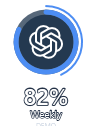
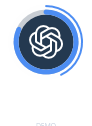
Show mini labels on hover and make inactive ring track translucent

diff --git a/native/Tests.cs b/native/Tests.cs
@@ -35,6 +35,18 @@ static class NativeTests {
 sealed partial class GlassWindow {
     async Task Capture(string name){await Dispatcher.InvokeAsync(()=>{},DispatcherPriority.ApplicationIdle);UpdateLayout();var visual=Content as FrameworkElement;var image=new RenderTargetBitmap((int)Math.Ceiling(Width),(int)Math.Ceiling(Height),96,96,PixelFormats.Pbgra32);image.Render(this);var pixels=new byte[(int)Math.Ceiling(Width)*(int)Math.Ceiling(Height)*4];image.CopyPixels(pixels,(int)Math.Ceiling(Width)*4,0);if(!Enumerable.Range(0,pixels.Length/4).Any(i=>pixels[i*4+3]>0))throw new Exception("Blank capture: "+name);var png=new PngBitmapEncoder();png.Frames.Add(BitmapFrame.Create(image));using(var file=File.Create(Path.Combine(Program.QaDirectory,name+".png")))png.Save(file);}
     async Task Pause(){await Task.Delay(80);await Dispatcher.InvokeAsync(()=>{},DispatcherPriority.ApplicationIdle);}
+    byte[] RingPixels(){var bitmap=new RenderTargetBitmap(92,126,96,96,PixelFormats.Pbgra32);bitmap.Render(ring);var pixels=new byte[92*126*4];bitmap.CopyPixels(pixels,92*4,0);return pixels;}
+    async Task CheckRingHover(){
+        ring.Reveal(false,false);await Pause();var hidden=RingPixels();
+        NativeTests.Check(Enumerable.Range(80*92,40*92).All(i=>hidden[i*4+3]==0),"Idle ring hides percentage and period");
+        int trackAlpha=hidden[(42*92+16)*4+3];NativeTests.Check(trackAlpha>50&&trackAlpha<120,"Inactive ring track composites with wallpaper");
+        NativeTests.Check(VisualTreeHelper.HitTest(ring,new Point(46,94))==null,"Hidden label area does not capture ring input");
+        ring.RaiseEvent(new System.Windows.Input.MouseEventArgs(System.Windows.Input.Mouse.PrimaryDevice,0){RoutedEvent=System.Windows.Input.Mouse.MouseEnterEvent});await Task.Delay(240);await Pause();
+        NativeTests.Check(ring.RevealProgress>.99,"Pointer entry completes reveal");var shown=RingPixels();NativeTests.Check(Enumerable.Range(80*92,40*92).Any(i=>shown[i*4+3]>0),"Hover draws percentage and period");await Capture("mini-hover");
+        ring.RaiseEvent(new System.Windows.Input.MouseEventArgs(System.Windows.Input.Mouse.PrimaryDevice,0){RoutedEvent=System.Windows.Input.Mouse.MouseLeaveEvent});await Task.Delay(200);await Pause();NativeTests.Check(ring.RevealProgress<.01,"Pointer exit retracts labels");
+        for(int i=0;i<6;i++){ring.Reveal(true);await Task.Delay(20);ring.Reveal(false);await Task.Delay(20);}await Task.Delay(200);NativeTests.Check(ring.RevealProgress<.01&&!ring.HasAnimatedProperties,"Rapid hover settles and releases the animation clock");
+        ring.Reveal(true,false);var oldRing=ring;Render();await Pause();NativeTests.Check(!oldRing.HasAnimatedProperties,"Rebuilding ring removes old animation clocks");ring.Reveal(false,false);await Capture("mini-idle");
+    }
     async Task CheckLanguages(){
         foreach(string code in Localization.Codes){
             await Pause();
@@ -54,7 +66,7 @@ sealed partial class GlassWindow {
         await Service.Refresh();Service.Snapshot["windows"]=J.Items(Service.Snapshot["windows"]).Where(q=>J.S(q,"group")!="codex"||J.N(q,"minutes")==10080).ToArray();
         view="main";dailyOpen=otherOpen=false;Service.Settings["mainSize"]=null;Service.Settings["compact"]=false;Service.Settings["theme"]="light";Service.Settings["accentColor"]="#4c8df3";
         foreach(string code in Localization.Codes){SetLanguage(code);scroller.ScrollToTop();await Capture("publish-"+code);}
-        Service.Settings["theme"]="dark";Render();await Capture("publish-dark");Compact(true);await Capture("publish-mini");
+        Service.Settings["theme"]="dark";Render();await Capture("publish-dark");Compact(true);await Capture("publish-mini");ring.Reveal(true,false);await Capture("publish-mini-hover");
     }
     void CheckTitleBar(){UpdateLayout();var header=Descendants<Border>(this).Single(b=>b.Name=="TitleBar");
         foreach(var point in new[]{new Point(5,28),new Point(header.ActualWidth/2,5),new Point(header.ActualWidth-5,28)}){
@@ -73,7 +85,7 @@ sealed partial class GlassWindow {
     }
     public async Task RunQA(){await Pause();await Service.Refresh();Render();await Capture("zh-main");CheckTitleBar();await CheckLanguages();double closedHeight=Height;otherOpen=true;Render();await Pause();NativeTests.Check(Height==closedHeight&&scroller.ScrollableHeight>0,"Expanding pools scrolls without growing the window");NativeTests.Check(Descendants<TextBlock>(scroller).Any(t=>t.Text=="gpt-5.6-luna"),"Pool model label is shown");var bar=Descendants<System.Windows.Controls.Primitives.ScrollBar>(scroller).Single(b=>b.Name=="PART_VerticalScrollBar");NativeTests.Check(bar.IsVisible,"Right scrollbar visible for overflow");System.Windows.Controls.Primitives.ScrollBar.PageDownCommand.Execute(null,bar);await Pause();NativeTests.Check(scroller.VerticalOffset>0,"Scrollbar page-down scrolls content");scroller.ScrollToVerticalOffset(250);await Pause();double beforeRefresh=scroller.VerticalOffset;Render();await Pause();NativeTests.Check(Math.Abs(scroller.VerticalOffset-beforeRefresh)<1,"Refresh retains scroll position");await Capture("zh-other-pools");Service.Settings["mainSize"]=J.Obj("width",320,"height",760);Render();scroller.ScrollToEnd();await Capture("zh-other-pools-narrow");Service.Settings["language"]="en";Render();scroller.ScrollToEnd();await Capture("en-other-pools-narrow");Service.Settings["language"]="zh";Service.Settings["mainSize"]=null;otherOpen=false;dailyOpen=true;await Service.ReadDaily();Render();await Pause();NativeTests.Check(Height==closedHeight,"Daily usage expansion keeps main height");await Capture("zh-daily");range=30;Render();await Capture("zh-month");NativeTests.Check(Descendants<BarChart>(this).Single().Days.Count==30,"Thirty chart bars");
         var initial=new Rect(Left,Top,Width,Height);foreach(string corner in new[]{"se","sw","ne","nw"}){var origin=new Rect(Left,Top,Width,Height);manualResize=true;ResizeFrom(origin,corner,corner.Contains("w")?10:-10,corner.Contains("n")?10:-10);manualResize=false;NativeTests.Check(Math.Abs(Width-origin.Width+10)<.1&&Math.Abs(Height-origin.Height+10)<.1,"Corner sizing "+corner);}
-        Service.Settings["mainSize"]=J.Obj("width",320,"height",420);Service.Save();Render();await Capture("small");await Pause();NativeTests.Check(scroller.ScrollableHeight>0&&scroller.ScrollableWidth==0,"Narrow overview scrolls vertically only");scroller.ScrollToEnd();await Capture("small-footer");Compact(true);await Capture("mini");NativeTests.Check(Width==92&&Height==126,"Mini dimensions preserved");NativeTests.Check(J.N(ring.Quota,"remaining")==68,"Ring tracks primary allowance");Service.Settings["ringWindow"]="week";Service.Settings["elapsedArc"]=true;Render();await Capture("mini-week");Background=Brushes.White;await Capture("mini-white-wallpaper");Background=Paint.Brush("#F1F4F8");await Capture("mini-light-wallpaper");Background=Paint.Brush("#17243A");await Capture("mini-dark-wallpaper");Background=Brushes.Transparent;NativeTests.Check(J.N(ring.Quota,"remaining")==82&&ring.Period==T("week"),"Pinned weekly ring");Compact(false);NativeTests.Check(Width==320&&Height==420,"Main size restored");view="settings";Render();await Capture("zh-settings");NativeTests.Check(Descendants<ComboBox>(this).Count()>=5,"Native settings controls present");
+        Service.Settings["mainSize"]=J.Obj("width",320,"height",420);Service.Save();Render();await Capture("small");await Pause();NativeTests.Check(scroller.ScrollableHeight>0&&scroller.ScrollableWidth==0,"Narrow overview scrolls vertically only");scroller.ScrollToEnd();await Capture("small-footer");Compact(true);await Capture("mini");await CheckRingHover();NativeTests.Check(Width==92&&Height==126,"Mini dimensions preserved");NativeTests.Check(J.N(ring.Quota,"remaining")==68,"Ring tracks primary allowance");Service.Settings["ringWindow"]="week";Service.Settings["elapsedArc"]=true;Render();ring.Reveal(true,false);await Capture("mini-week");Background=Brushes.White;await Capture("mini-white-wallpaper");Background=Paint.Brush("#F1F4F8");await Capture("mini-light-wallpaper");Background=Paint.Brush("#17243A");await Capture("mini-dark-wallpaper");Background=Brushes.Transparent;NativeTests.Check(J.N(ring.Quota,"remaining")==82&&ring.Period==T("week"),"Pinned weekly ring");Compact(false);NativeTests.Check(Width==320&&Height==420,"Main size restored");view="settings";Render();await Capture("zh-settings");NativeTests.Check(Descendants<ComboBox>(this).Count()>=5,"Native settings controls present");
         Service.Settings["language"]="en";Service.Settings["theme"]="dark";Service.Settings["accentColor"]="#8b5cf6";Service.Save();Render();await Capture("en-settings");NativeTests.Check(Service.SetMember(Service.Identity,"2027-03-14","expiry"),"Member saved");NativeTests.Check(!Service.SetMember("wrong","2027-03-14","expiry"),"Membership cross-account rejected");NativeTests.Check(J.S(Service.Store.Read("settings"),"accentColor")=="#8b5cf6","Color persists");view="main";Service.Settings["mainSize"]=null;Render();await Capture("en-dark");Compact(true);var memory=Memory();await Capture("mini-dark");Service.Snapshot=null;Service.Status="error";Service.Error="signInRequired";Compact(false);Render();await Capture("signed-out");NativeTests.Check(Descendants<Button>(this).Any(b=>Convert.ToString(b.Content)==T("connect")),"Sign-in control available");await CaptureReadme();File.WriteAllText(Path.Combine(Program.QaDirectory,"ui-result.json"),J.Json(J.Obj("passed",true,"renderer","WPF","miniWidth",92,"miniHeight",126,"helperRunning",Service.Rpc.ChildId!=0,"memory",memory)));
     }
     static IEnumerable<T> Descendants<T>(DependencyObject root) where T:DependencyObject {for(int i=0;i<VisualTreeHelper.GetChildrenCount(root);i++){var child=VisualTreeHelper.GetChild(root,i);if(child is T)yield return (T)child;foreach(var next in Descendants<T>(child))yield return next;}}

diff --git a/native/Window.cs b/native/Window.cs
@@ -20,7 +20,7 @@ using D=System.Collections.Generic.Dictionary<string,object>;
 namespace CodexGlass {
 sealed partial class GlassWindow : Window {
     public readonly Service Service;readonly bool smoke;Forms.NotifyIcon tray;DispatcherTimer poll,tick,loginTimeout,moveTimer;string view="main";bool dailyOpen,otherOpen,placing,manualResize,closing;int range=7;Brush ink,muted,accent,line,surface;bool dark;Geometry logo;Point ringDown;bool ringMoved;RingView ring;TextBlock statusText;List<Action> clockUpdates=new List<Action>();ScrollViewer scroller;
-    public const string Version="0.5.0";
+    public const string Version="0.5.1";
     public GlassWindow(Service service,bool qa){Service=service;smoke=qa;logo=Geometry.Parse(Resource("logo.txt"));logo.Freeze();
         Title="Codex Glass";FontFamily=new FontFamily("Segoe UI, Microsoft YaHei");FontSize=12;WindowStyle=WindowStyle.None;AllowsTransparency=true;Background=Brushes.Transparent;ShowInTaskbar=false;ResizeMode=ResizeMode.NoResize;Width=382;Height=580;UseLayoutRounding=true;SnapsToDevicePixels=true;
         using(var stream=Assembly.GetExecutingAssembly().GetManifestResourceStream("icon.png")){Icon=BitmapFrame.Create(stream,BitmapCreateOptions.None,BitmapCacheOption.OnLoad);}
@@ -129,7 +129,7 @@ sealed partial class GlassWindow : Window {
         var note=Text(T("dailySource")+(J.B(Service.Daily,"incomplete")?" "+T("partialDaily"):""),10,muted);note.Margin=new Thickness(0,10,0,8);content.Children.Add(note);return content;}
     UIElement Footer(){statusText=Text("",10,muted);Action update=()=>{string age=Service.Snapshot==null?"":J.Now-J.N(Service.Snapshot,"observedAt")<60000?T("justNow"):Math.Floor((J.Now-J.N(Service.Snapshot,"observedAt"))/60000)+" "+T("minutesAgo");statusText.Text="●  "+T(Service.Busy?"syncing":Service.Status=="live"?"live":Service.Status=="stale"?"stale":"offline")+"  "+age;};update();clockUpdates.Add(update);var buttons=new StackPanel{Orientation=Orientation.Horizontal};buttons.Children.Add(IconButton("\uE72C",T("refresh"),RefreshSoon));buttons.Children.Add(IconButton("\uE8A7",T("usage"),()=>Open("https://chatgpt.com/codex/settings/usage")));return new Border{BorderBrush=line,BorderThickness=new Thickness(0,1,0,0),Padding=new Thickness(20,2,14,2),Child=Row(statusText,buttons)};}
     void Compact(bool compact){Service.Settings["compact"]=compact;Service.Save();view="main";Render();}
-    void BuildRing(){var selected=Model.Selected(Service.Snapshot,J.S(Service.Settings,"ringWindow"),J.Now);ring=new RingView{Quota=selected,Period=selected==null?"":QuotaName(selected),Accent=J.Get(Service.Settings,"accentColor")==null?Paint.Brush("#2EC9A0"):accent,Stale=Service.Status=="stale",Demo=Service.Demo,Outer=J.B(Service.Settings,"elapsedArc"),OuterAccent=accent,Logo=logo};ring.ToolTip=string.Join("\n",J.Items(J.Get(Service.Snapshot,"windows")).Select(q=>QuotaName(q)+" · "+Math.Floor(J.N(q,"remaining"))+"% · "+Countdown(q)))+"\n"+T("ringHelp");ring.MouseLeftButtonDown+=(s,e)=>{ringDown=PointToScreen(e.GetPosition(this));ringMoved=false;ring.CaptureMouse();e.Handled=true;};ring.MouseMove+=(s,e)=>{if(e.LeftButton!=MouseButtonState.Pressed)return;Point p=PointToScreen(e.GetPosition(this));if(!ringMoved&&(p-ringDown).Length>5){ringMoved=true;ring.ReleaseMouseCapture();MoveWindow();}};ring.MouseLeftButtonUp+=(s,e)=>{ring.ReleaseMouseCapture();if(!ringMoved)Compact(false);e.Handled=true;};ring.KeyDown+=(s,e)=>{if(e.Key==Key.Enter||e.Key==Key.Space){Compact(false);e.Handled=true;}};Content=ring;}
+    void BuildRing(){var selected=Model.Selected(Service.Snapshot,J.S(Service.Settings,"ringWindow"),J.Now);ring=new RingView{Quota=selected,Period=selected==null?"":QuotaName(selected),Accent=J.Get(Service.Settings,"accentColor")==null?Paint.Brush("#2EC9A0"):accent,Stale=Service.Status=="stale",Demo=Service.Demo,Outer=J.B(Service.Settings,"elapsedArc"),OuterAccent=accent,Logo=logo};System.Windows.Automation.AutomationProperties.SetHelpText(ring,string.Join("\n",J.Items(J.Get(Service.Snapshot,"windows")).Select(q=>QuotaName(q)+" · "+Math.Floor(J.N(q,"remaining"))+"% · "+Countdown(q)))+"\n"+T("ringHelp"));ring.MouseLeftButtonDown+=(s,e)=>{ringDown=PointToScreen(e.GetPosition(this));ringMoved=false;ring.CaptureMouse();e.Handled=true;};ring.MouseMove+=(s,e)=>{if(e.LeftButton!=MouseButtonState.Pressed)return;Point p=PointToScreen(e.GetPosition(this));if(!ringMoved&&(p-ringDown).Length>5){ringMoved=true;ring.ReleaseMouseCapture();MoveWindow();}};ring.MouseLeftButtonUp+=(s,e)=>{ring.ReleaseMouseCapture();if(!ringMoved)Compact(false);e.Handled=true;};ring.KeyDown+=(s,e)=>{if(e.Key==Key.Enter||e.Key==Key.Space){Compact(false);e.Handled=true;}};Content=ring;}
     public static void Open(string url){Process.Start(new ProcessStartInfo(url){UseShellExecute=true});}
     void SetStartup(bool enabled){if(smoke)return;try{using(var key=Registry.CurrentUser.CreateSubKey(@"Software\Microsoft\Windows\CurrentVersion\Run")){if(enabled)key.SetValue("Codex Glass","\""+Assembly.GetExecutingAssembly().Location+"\" --hidden");else key.DeleteValue("Codex Glass",false);}}catch{Service.Settings["startup"]=false;}}
     void UpdateTray(){tray.Text="Codex Glass";var menu=new Forms.ContextMenuStrip();Action<string,Action> item=(label,action)=>menu.Items.Add(label,null,(s,e)=>Dispatcher.BeginInvoke(action));item(T("expand"),()=>{Compact(false);Reveal();});item(T("compact"),()=>{Compact(true);Reveal();});item(T("settings"),()=>{view="settings";Render();Reveal();});item(T("refresh"),RefreshSoon);item(T("restoreSize"),()=>{Service.Settings["mainSize"]=null;Service.Save();Render();});item(T("quit"),Quit);var old=tray.ContextMenuStrip;tray.ContextMenuStrip=menu;if(old!=null)old.Dispose();}

diff --git a/native/Visuals.cs b/native/Visuals.cs
@@ -5,6 +5,7 @@ using System.Linq;
 using System.Windows;
 using System.Windows.Input;
 using System.Windows.Media;
+using System.Windows.Media.Animation;
 using D=System.Collections.Generic.Dictionary<string,object>;
 namespace CodexGlass {
 static class Paint {
@@ -22,15 +23,37 @@ static class Paint {
 }
 sealed class RingView : FrameworkElement {
     public D Quota;public string Period;public Brush Accent,OuterAccent;public bool Stale,Demo,Outer;public Geometry Logo;
-    public RingView(){Width=92;Height=126;Cursor=Cursors.Hand;Focusable=true;}
+    static readonly Brush CenterBrush=Paint.Brush("#243950"),TrackBrush=Paint.Brush("#5257687A"),HitBrush=Paint.Brush("#01000000");
+    static readonly DependencyProperty RevealProperty=DependencyProperty.Register("RevealProgress",typeof(double),typeof(RingView),new FrameworkPropertyMetadata(0d,FrameworkPropertyMetadataOptions.AffectsRender));
+    bool revealed;int animationVersion;string captionKey;DrawingGroup caption;
+    public double RevealProgress {get{return (double)GetValue(RevealProperty);}}
+    public RingView(){Width=92;Height=126;Cursor=Cursors.Hand;Focusable=true;
+        MouseEnter+=(s,e)=>Reveal(true);MouseLeave+=(s,e)=>Reveal(false);
+        GotKeyboardFocus+=(s,e)=>Reveal(true);LostKeyboardFocus+=(s,e)=>{if(!IsMouseOver)Reveal(false);};
+        Loaded+=(s,e)=>{if(IsMouseOver)Reveal(true,false);};
+        Unloaded+=(s,e)=>{animationVersion++;BeginAnimation(RevealProperty,null);};
+    }
+    public void Reveal(bool show,bool animate=true){if(revealed==show&&animate)return;revealed=show;int version=++animationVersion;double target=show?1:0;
+        if(!animate||!SystemParameters.ClientAreaAnimation){BeginAnimation(RevealProperty,null);SetValue(RevealProperty,target);return;}
+        var motion=new DoubleAnimation(RevealProgress,target,TimeSpan.FromMilliseconds(show?180:140)){EasingFunction=new CubicEase{EasingMode=EasingMode.EaseOut},FillBehavior=FillBehavior.Stop};
+        motion.Completed+=(s,e)=>{if(version==animationVersion){BeginAnimation(RevealProperty,null);SetValue(RevealProperty,target);}};
+        BeginAnimation(RevealProperty,motion,HandoffBehavior.SnapshotAndReplace);SetValue(RevealProperty,target);
+    }
+    protected override HitTestResult HitTestCore(PointHitTestParameters hit){return (hit.HitPoint-new Point(46,42)).Length<=38?new PointHitTestResult(this,hit.HitPoint):null;}
+    DrawingGroup Caption(double left){string value=left<0?"—":Math.Floor(left)+"%",period=(Stale?"◷ ":"")+(Period??"");string key=value+"|"+period;
+        if(caption==null||captionKey!=key){captionKey=key;caption=new DrawingGroup();using(var text=caption.Open()){
+            var number=Paint.Text(value,23,Brushes.White,true);Paint.DesktopText(text,number,new Point((92-number.Width)/2,80),2);
+            var label=Paint.Text(period,10,Brushes.White);Paint.DesktopText(text,label,new Point((92-label.Width)/2,107),1.6);
+        }caption.Freeze();}return caption;
+    }
     protected override void OnRender(DrawingContext dc){
         base.OnRender(dc);double left=Quota==null?-1:J.N(Quota,"remaining");Brush color=Stale||left<0?Paint.Brush("#98A5B6"):left<=10?Paint.Brush("#EF5B58"):left<=25?Paint.Brush("#F5A33C"):Accent;
-        var center=new Point(46,42);dc.DrawEllipse(Paint.Brush("#243950"),null,center,30,30);dc.DrawEllipse(null,new Pen(Paint.Brush("#57687A"),5),center,30,30);
+        // Keep the gap between rings hoverable, without an opaque backing behind the track.
+        var center=new Point(46,42);dc.DrawEllipse(HitBrush,null,center,38,38);dc.DrawEllipse(CenterBrush,null,center,27.5,27.5);dc.DrawEllipse(null,new Pen(TrackBrush,5),center,30,30);
         Paint.Arc(dc,center,30,Math.Max(0,left)/100,new Pen(color,5){StartLineCap=PenLineCap.Round,EndLineCap=PenLineCap.Round});
         if(Outer&&Quota!=null&&J.N(Quota,"resetsAt")>0&&J.N(Quota,"minutes")>0)Paint.Arc(dc,center,36,J.Clamp(1-(J.N(Quota,"resetsAt")-J.Now)/(J.N(Quota,"minutes")*60000),0,1),new Pen(OuterAccent??Accent,2){StartLineCap=PenLineCap.Round,EndLineCap=PenLineCap.Round});
         if(Logo!=null){dc.PushTransform(new TranslateTransform(29,25));dc.PushTransform(new ScaleTransform(34/24.0,34/24.0));dc.DrawGeometry(Brushes.White,null,Logo);dc.Pop();dc.Pop();}
-        var value=Paint.Text(left<0?"—":Math.Floor(left)+"%",23,Brushes.White,true);Paint.DesktopText(dc,value,new Point((92-value.Width)/2,80),2);
-        var period=Paint.Text((Stale?"◷ ":"")+(Period??""),10,Brushes.White);Paint.DesktopText(dc,period,new Point((92-period.Width)/2,107),1.6);
+        double reveal=J.Clamp(RevealProgress,0,1);if(reveal>0){dc.PushClip(new RectangleGeometry(new Rect(0,79,92,41)));dc.PushOpacity(reveal);dc.PushTransform(new TranslateTransform(0,-8*(1-reveal)));dc.DrawDrawing(Caption(left));dc.Pop();dc.Pop();dc.Pop();}
         if(Demo){var demo=Paint.Text("DEMO",7,Paint.Brush("#D0D9E5"));dc.DrawText(demo,new Point((92-demo.Width)/2,120));}
     }
 }

diff --git a/native/Core.cs b/native/Core.cs
@@ -121,7 +121,7 @@ sealed class Rpc : IDisposable {
             try {if(!p.Start())throw new Exception("startFailed");}catch{Close(p,"startFailed");throw new Exception("startFailed");}
             p.StandardInput.AutoFlush=true;
             BeginRead(p);
-            await Request("initialize",J.Obj("clientInfo",J.Obj("name","codex_glass_native","title","Codex Glass","version","0.5.0")));
+            await Request("initialize",J.Obj("clientInfo",J.Obj("name","codex_glass_native","title","Codex Glass","version","0.5.1")));
             Write(J.Obj("method","initialized","params",new D()));ready=true;
         }finally{startGate.Release();}
     }

diff --git a/native/Program.cs b/native/Program.cs
@@ -6,8 +6,8 @@ using System.Windows;
 using System.Windows.Threading;
 [assembly: AssemblyTitle("Codex Glass")]
 [assembly: AssemblyProduct("Codex Glass")]
-[assembly: AssemblyVersion("0.5.0.0")]
-[assembly: AssemblyFileVersion("0.5.0.0")]
+[assembly: AssemblyVersion("0.5.1.0")]
+[assembly: AssemblyFileVersion("0.5.1.0")]
 namespace CodexGlass {
 static class Program {
     public static string[] Arguments;public static string QaDirectory;

diff --git a/README.en.md b/README.en.md
@@ -10,7 +10,7 @@ Windows 10 / 11 · x64 · C# / WPF
 
 [简体中文](README.md) · [繁體中文](README.zh-TW.md) · [English](README.en.md)
 
-![Windows](https://img.shields.io/badge/Windows-10%20%2F%2011-0078D4?style=flat-square) ![Version](https://img.shields.io/badge/version-0.5.0-4C8DF3?style=flat-square) ![MIT](https://img.shields.io/badge/license-MIT-16A085?style=flat-square)
+![Windows](https://img.shields.io/badge/Windows-10%20%2F%2011-0078D4?style=flat-square) ![Version](https://img.shields.io/badge/version-0.5.1-4C8DF3?style=flat-square) ![MIT](https://img.shields.io/badge/license-MIT-16A085?style=flat-square)
 
 [Download](https://github.com/qyyzclthsay/Codex-Glass/releases/latest) · [Report an issue](https://github.com/qyyzclthsay/Codex-Glass/issues) · [Validation](docs/VALIDATION.md)
 
@@ -18,7 +18,7 @@ Windows 10 / 11 · x64 · C# / WPF
 
 <table><tr><td align="center"><b>Usage overview</b><br><img src="assets/preview-en.png" width="300" alt="Usage overview · Demo"></td><td align="center"><b>Dark theme</b><br><img src="assets/preview-dark.png" width="300" alt="Dark theme · Demo"></td></tr></table>
 
-<p align="center"><img src="assets/preview-ring.png" width="92" alt="Mini ring · Demo"><br><sub>Click to expand. Drag to move. All screenshots use demo data.</sub></p>
+<p align="center"><img src="assets/preview-ring.png" width="92" alt="Idle ring · Demo"> <img src="assets/preview-ring-hover.png" width="92" alt="Hovered ring · Demo"><br><sub>Hover for numbers. Click to expand. Drag to move. All screenshots use demo data.</sub></p>
 
 ## A small companion for your desktop
 
@@ -35,14 +35,14 @@ The elapsed-time arc follows your accent. Outlined percentage and period labels 
 
 ## Download & get started
 
-**[Download the Windows installer](https://github.com/qyyzclthsay/Codex-Glass/releases/latest/download/Codex-Glass-0.5.0-Setup-x64.exe)**
+**[Download the Windows installer](https://github.com/qyyzclthsay/Codex-Glass/releases/latest/download/Codex-Glass-0.5.1-Setup-x64.exe)**
 
 | File | Purpose |
 | --- | --- |
-| [Setup-x64.exe](https://github.com/qyyzclthsay/Codex-Glass/releases/latest/download/Codex-Glass-0.5.0-Setup-x64.exe) | Recommended installer, about 124 KiB |
-| [Portable-x64.exe](https://github.com/qyyzclthsay/Codex-Glass/releases/latest/download/Codex-Glass-0.5.0-Portable-x64.exe) | Standalone executable, about 180 KiB |
-| [Portable-x64.zip](https://github.com/qyyzclthsay/Codex-Glass/releases/latest/download/Codex-Glass-0.5.0-Portable-x64.zip) | Portable executable and licenses |
-| [SHA256SUMS](https://github.com/qyyzclthsay/Codex-Glass/releases/latest/download/SHA256SUMS-0.5.0.txt) | Download checksums |
+| [Setup-x64.exe](https://github.com/qyyzclthsay/Codex-Glass/releases/latest/download/Codex-Glass-0.5.1-Setup-x64.exe) | Recommended installer, about 126 KiB |
+| [Portable-x64.exe](https://github.com/qyyzclthsay/Codex-Glass/releases/latest/download/Codex-Glass-0.5.1-Portable-x64.exe) | Standalone executable, about 187 KiB |
+| [Portable-x64.zip](https://github.com/qyyzclthsay/Codex-Glass/releases/latest/download/Codex-Glass-0.5.1-Portable-x64.zip) | Portable executable and licenses |
+| [SHA256SUMS](https://github.com/qyyzclthsay/Codex-Glass/releases/latest/download/SHA256SUMS-0.5.1.txt) | Download checksums |
 
 1. Install the official Codex desktop app or CLI on Windows 10 / 11 x64 and sign in with ChatGPT.
 2. Install or run Codex Glass. It reads the current account through local Codex.
@@ -56,7 +56,7 @@ C# / WPF using the Windows-provided .NET Framework. No bundled Electron, Chromiu
 
 **Download size is not RAM usage.** See the [validation record](docs/VALIDATION.md) for current measurements and conditions. Private memory and working set are different metrics; usage varies with system, fonts and activity. The Codex helper exits after queries and stays connected only while browser sign-in is pending.
 
-Normal compact launch on this machine: **84.4 MiB private memory**, **119.9 MiB working set**, with no helper child after the query.
+Reference measurement (v0.5.0, compact mode): **84.4 MiB private memory**, **119.9 MiB working set**, with no helper child after the query.
 
 ## Data & privacy
 

diff --git a/README.zh-TW.md b/README.zh-TW.md
@@ -10,7 +10,7 @@ Windows 10 / 11 · x64 · C# / WPF
 
 [简体中文](README.md) · [繁體中文](README.zh-TW.md) · [English](README.en.md)
 
-![Windows](https://img.shields.io/badge/Windows-10%20%2F%2011-0078D4?style=flat-square) ![Version](https://img.shields.io/badge/version-0.5.0-4C8DF3?style=flat-square) ![MIT](https://img.shields.io/badge/license-MIT-16A085?style=flat-square)
+![Windows](https://img.shields.io/badge/Windows-10%20%2F%2011-0078D4?style=flat-square) ![Version](https://img.shields.io/badge/version-0.5.1-4C8DF3?style=flat-square) ![MIT](https://img.shields.io/badge/license-MIT-16A085?style=flat-square)
 
 [下載最新版](https://github.com/qyyzclthsay/Codex-Glass/releases/latest) · [回報問題](https://github.com/qyyzclthsay/Codex-Glass/issues) · [驗證紀錄](docs/VALIDATION.md)
 
@@ -18,7 +18,7 @@ Windows 10 / 11 · x64 · C# / WPF
 
 <table><tr><td align="center"><b>用量總覽</b><br><img src="assets/preview-zh-TW.png" width="300" alt="用量總覽 · Demo"></td><td align="center"><b>深色主題</b><br><img src="assets/preview-dark.png" width="300" alt="深色主題 · Demo"></td></tr></table>
 
-<p align="center"><img src="assets/preview-ring.png" width="92" alt="Mini ring · Demo"><br><sub>點一下展開，拖曳即可移動。截圖均為示範資料。</sub></p>
+<p align="center"><img src="assets/preview-ring.png" width="92" alt="Idle ring · Demo"> <img src="assets/preview-ring-hover.png" width="92" alt="Hovered ring · Demo"><br><sub>平時只顯示圓環，滑鼠停留時顯示數字；點擊展開，拖曳移動。截圖均為示範資料。</sub></p>
 
 ## 小元件，隨時可見
 
@@ -35,14 +35,14 @@ Windows 10 / 11 · x64 · C# / WPF
 
 ## 下載與開始使用
 
-**[下載 Windows 安裝程式](https://github.com/qyyzclthsay/Codex-Glass/releases/latest/download/Codex-Glass-0.5.0-Setup-x64.exe)**
+**[下載 Windows 安裝程式](https://github.com/qyyzclthsay/Codex-Glass/releases/latest/download/Codex-Glass-0.5.1-Setup-x64.exe)**
 
 | 檔案 | 用途 |
 | --- | --- |
-| [Setup-x64.exe](https://github.com/qyyzclthsay/Codex-Glass/releases/latest/download/Codex-Glass-0.5.0-Setup-x64.exe) | 推薦安裝版，約 124 KiB |
-| [Portable-x64.exe](https://github.com/qyyzclthsay/Codex-Glass/releases/latest/download/Codex-Glass-0.5.0-Portable-x64.exe) | 單檔可攜版，約 180 KiB |
-| [Portable-x64.zip](https://github.com/qyyzclthsay/Codex-Glass/releases/latest/download/Codex-Glass-0.5.0-Portable-x64.zip) | 可攜版與授權文件 |
-| [SHA256SUMS](https://github.com/qyyzclthsay/Codex-Glass/releases/latest/download/SHA256SUMS-0.5.0.txt) | 下載檔案校驗值 |
+| [Setup-x64.exe](https://github.com/qyyzclthsay/Codex-Glass/releases/latest/download/Codex-Glass-0.5.1-Setup-x64.exe) | 推薦安裝版，約 126 KiB |
+| [Portable-x64.exe](https://github.com/qyyzclthsay/Codex-Glass/releases/latest/download/Codex-Glass-0.5.1-Portable-x64.exe) | 單檔可攜版，約 187 KiB |
+| [Portable-x64.zip](https://github.com/qyyzclthsay/Codex-Glass/releases/latest/download/Codex-Glass-0.5.1-Portable-x64.zip) | 可攜版與授權文件 |
+| [SHA256SUMS](https://github.com/qyyzclthsay/Codex-Glass/releases/latest/download/SHA256SUMS-0.5.1.txt) | 下載檔案校驗值 |
 
 1. 在 Windows 10 / 11 x64 安裝官方 Codex 桌面應用程式或 CLI，登入你的 ChatGPT 帳戶。
 2. 安裝或執行 Codex Glass，透過本機 Codex 讀取目前帳戶額度。
@@ -56,7 +56,7 @@ C# / WPF 原生實作，使用 Windows 提供的 .NET Framework，不附帶 Elec
 
 **下載大小不等於執行記憶體。** 最新實測數據與條件見 [驗證紀錄](docs/VALIDATION.md)。私有記憶體與工作集是不同指標，用量會隨系統、字型與操作改變。查詢結束後釋放 Codex 輔助程序；瀏覽器登入等待期間保留連線。
 
-本機正常迷你模式實測：私有記憶體 **84.4 MiB**，工作集 **119.9 MiB**，查詢後無輔助子程序。
+v0.5.0 本機基準實測：私有記憶體 **84.4 MiB**，工作集 **119.9 MiB**，查詢後無輔助子程序。
 
 ## 資料與隱私
 

diff --git a/README.md b/README.md
@@ -10,7 +10,7 @@ Windows 10 / 11 · x64 · C# / WPF
 
 [简体中文](README.md) · [繁體中文](README.zh-TW.md) · [English](README.en.md)
 
-![Windows](https://img.shields.io/badge/Windows-10%20%2F%2011-0078D4?style=flat-square) ![Version](https://img.shields.io/badge/version-0.5.0-4C8DF3?style=flat-square) ![MIT](https://img.shields.io/badge/license-MIT-16A085?style=flat-square)
+![Windows](https://img.shields.io/badge/Windows-10%20%2F%2011-0078D4?style=flat-square) ![Version](https://img.shields.io/badge/version-0.5.1-4C8DF3?style=flat-square) ![MIT](https://img.shields.io/badge/license-MIT-16A085?style=flat-square)
 
 [下载最新版](https://github.com/qyyzclthsay/Codex-Glass/releases/latest) · [反馈问题](https://github.com/qyyzclthsay/Codex-Glass/issues) · [验证记录](docs/VALIDATION.md)
 
@@ -18,7 +18,7 @@ Windows 10 / 11 · x64 · C# / WPF
 
 <table><tr><td align="center"><b>用量概览</b><br><img src="assets/preview-zh.png" width="300" alt="用量概览 · Demo"></td><td align="center"><b>深色主题</b><br><img src="assets/preview-dark.png" width="300" alt="深色主题 · Demo"></td></tr></table>
 
-<p align="center"><img src="assets/preview-ring.png" width="92" alt="Mini ring · Demo"><br><sub>点一下展开，拖动即可移动。截图均为演示数据。</sub></p>
+<p align="center"><img src="assets/preview-ring.png" width="92" alt="Idle ring · Demo"> <img src="assets/preview-ring-hover.png" width="92" alt="Hovered ring · Demo"><br><sub>平时只显示圆环，悬停显示数字；点击展开，拖动移动。截图均为演示数据。</sub></p>
 
 ## 小组件，随时可见
 
@@ -35,14 +35,14 @@ Windows 10 / 11 · x64 · C# / WPF
 
 ## 下载与开始使用
 
-**[下载 Windows 安装包](https://github.com/qyyzclthsay/Codex-Glass/releases/latest/download/Codex-Glass-0.5.0-Setup-x64.exe)**
+**[下载 Windows 安装包](https://github.com/qyyzclthsay/Codex-Glass/releases/latest/download/Codex-Glass-0.5.1-Setup-x64.exe)**
 
 | 文件 | 用途 |
 | --- | --- |
-| [Setup-x64.exe](https://github.com/qyyzclthsay/Codex-Glass/releases/latest/download/Codex-Glass-0.5.0-Setup-x64.exe) | 推荐安装版，约 124 KiB |
-| [Portable-x64.exe](https://github.com/qyyzclthsay/Codex-Glass/releases/latest/download/Codex-Glass-0.5.0-Portable-x64.exe) | 单文件便携版，约 180 KiB |
-| [Portable-x64.zip](https://github.com/qyyzclthsay/Codex-Glass/releases/latest/download/Codex-Glass-0.5.0-Portable-x64.zip) | 便携版与许可证 |
-| [SHA256SUMS](https://github.com/qyyzclthsay/Codex-Glass/releases/latest/download/SHA256SUMS-0.5.0.txt) | 下载文件校验值 |
+| [Setup-x64.exe](https://github.com/qyyzclthsay/Codex-Glass/releases/latest/download/Codex-Glass-0.5.1-Setup-x64.exe) | 推荐安装版，约 126 KiB |
+| [Portable-x64.exe](https://github.com/qyyzclthsay/Codex-Glass/releases/latest/download/Codex-Glass-0.5.1-Portable-x64.exe) | 单文件便携版，约 187 KiB |
+| [Portable-x64.zip](https://github.com/qyyzclthsay/Codex-Glass/releases/latest/download/Codex-Glass-0.5.1-Portable-x64.zip) | 便携版与许可证 |
+| [SHA256SUMS](https://github.com/qyyzclthsay/Codex-Glass/releases/latest/download/SHA256SUMS-0.5.1.txt) | 下载文件校验值 |
 
 1. 在 Windows 10 / 11 x64 安装官方 Codex 桌面应用或 CLI，登录你的 ChatGPT 账户。
 2. 安装或运行 Codex Glass，通过本机 Codex 读取当前账户的额度。
@@ -56,7 +56,7 @@ C# / WPF 原生实现，使用 Windows 自带 .NET Framework，不捆绑 Electro
 
 **下载大小不等于运行内存。** 最新实测数据与条件见 [验证记录](docs/VALIDATION.md)。私有内存与工作集是不同口径，占用随系统、字体和操作变化。查询结束后释放 Codex 辅助进程；浏览器登录等待期间保留连接。
 
-本机正常迷你模式实测：私有内存 **84.4 MiB**，工作集 **119.9 MiB**，查询后无辅助子进程。
+v0.5.0 本机基准实测：私有内存 **84.4 MiB**，工作集 **119.9 MiB**，查询后无辅助子进程。
 
 ## 数据与隐私
 

diff --git a/docs/VALIDATION.md b/docs/VALIDATION.md
@@ -1,5 +1,17 @@
 # Validation record — native update 2026-09-20
 
+## v0.5.1 hover labels and translucent track
+
+- Kept the center color and text appearance; inactive track alpha is 82/255, with no
+  opaque disk beneath the track. Mini window size stays 92 × 126 DIP during hover.
+- Percentage/period labels are hidden at rest, slide/fade in on circle entry and retract
+  on exit. Animations use cached caption drawings and respect reduced-motion settings.
+- 39 core checks and the UI suite passed. Added rendering/input checks for hidden
+  text pixels, translucent track alpha, label-area hit testing, routed pointer enter/leave,
+  rapid reversal, completed-clock cleanup and removal of old ring animations on refresh.
+- Visually checked idle, hover and white-background renders. Pointer tests use WPF
+  routed events; physical mouse automation remains unavailable on this machine.
+
 ## v0.5.0 release
 
 - 39 core/protocol assertions passed, including three-language catalog coverage,

diff --git a/CHANGELOG.md b/CHANGELOG.md
@@ -1,5 +1,13 @@
 # Changelog
 
+## 0.5.1 — 2026-09-20
+
+- Made the inactive ring track translucent while retaining the original center color.
+- Hide compact-mode percentage and period labels until the pointer enters the circle.
+  Labels slide/fade in over 180 ms and retract over 140 ms; text styling is unchanged.
+- Respect Windows' animation preference. Finished and interrupted animations release
+  their clocks; caption drawings are cached instead of rebuilding text every frame.
+
 ## 0.5.0 — 2026-09-20
 
 - Added Traditional Chinese throughout the interface, preferences and notifications.
